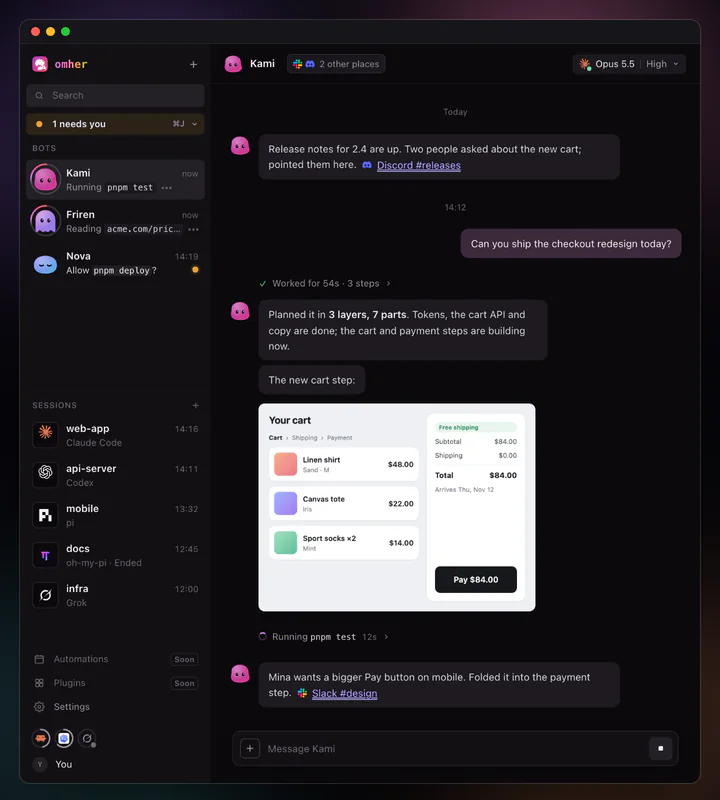
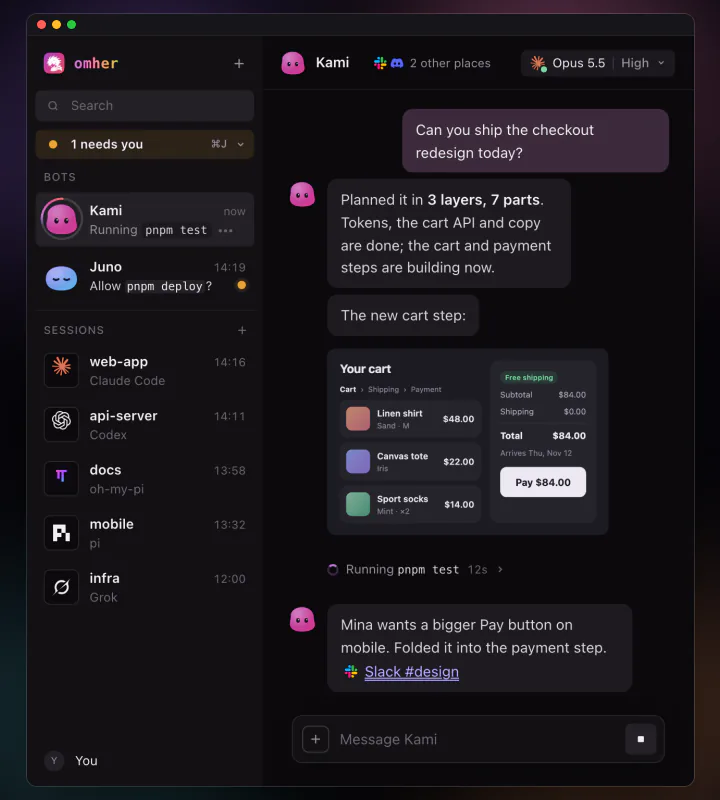
fix(site): beam source behind the pill, no haze over the app, bigger flat promo shot
The revised promo image (2400x1239, flat window, captions outside it) replaces the
tilted 2400x1640 one. The window is re-measured from its 1px border (x 340-2156,
y 65-1173) and placed with --win-*; the shot now shows the window at ~70% of a
1440 viewport (1012 CSS px), centred on the page axis with the image's backdrop
overflowing both sides.

- Source: the Download pill carries a faint spectral rim and a soft spectral glow
  under it; the shader has no bloom on the pill any more. The column fades in
  from ~40px under the 68px header, narrow, and fans out only toward the window.
  It lands left of the pill, clear of the GitHub pill and the right caption.
- No haze: the volume is clipped at the window's top edge with a 12px feather;
  only the spectral rim and a <=4.5% sheen enter the window. Measured beam-on vs
  beam-off over the window: mean +2/255, max 16/255. The cursor glare is capped
  at ~6%, the click ring is gone (sparks only), the 2D fallback clips at the edge.
- No muddy glows: the image's own backdrop glows (teal left, olive and violet
  under the window) are masked off; only the window and the two side captions
  are drawn, over one brand-violet ambient glow and a plain drop shadow.
- The rim on the window edge takes the beam's own spectrum under its footprint
  and fades outside it; the fan keeps widening past the impact, so the far side
  of a slanted beam has no shelf.
- Phones: the beam stays off when the header-to-window gap is under ~70px.
[…]

diff --git a/site/index.html b/site/index.html
@@ -461,65 +461,81 @@ details.agent .copy--agent{margin-top:12px;padding:8px 14px;border:1px solid var
 
 /* omher at the top: header Download pill, the beam under it, then one promo shot, OS downloads and a one-line install */
 .nav > a.dlpill{position:relative;gap:7px;padding:0 15px 0 12px;border:0;background:#f4f1f8;color:#0c0a12;font:600 12.5px var(--sans);letter-spacing:0;text-transform:none;
-  box-shadow:0 0 0 1px rgba(255,255,255,.55),0 0 18px rgba(255,255,255,.22),0 0 44px rgba(242,123,182,.2);transition:transform var(--fast),box-shadow var(--fast),background var(--fast)}
-.nav > a.dlpill:hover{background:#fff;transform:translateY(-1px);box-shadow:0 0 0 1px #fff,0 0 24px rgba(255,255,255,.34),0 0 60px rgba(242,123,182,.3)}
+  box-shadow:-12px 12px 28px -8px rgba(164,108,245,.62),-4px 16px 30px -8px rgba(47,208,255,.5),4px 16px 30px -8px rgba(242,210,74,.4),12px 12px 28px -8px rgba(242,123,182,.62),0 0 0 1px rgba(255,255,255,.4);
+  transition:transform var(--fast),background var(--fast),box-shadow var(--fast)}
+.nav > a.dlpill:hover{background:#fff;transform:translateY(-1px);
+  box-shadow:-12px 12px 30px -6px rgba(164,108,245,.75),0 16px 34px -6px rgba(47,208,255,.55),12px 12px 30px -6px rgba(242,123,182,.75),0 0 0 1px #fff}
+/* the beam's source: a faint spectral rim on the pill and a soft spectral glow under it (box-shadow); the beam itself starts ~40px lower */
+.nav > a.dlpill::before{content:"";position:absolute;inset:-1.5px;border-radius:inherit;padding:1.5px;pointer-events:none;opacity:.8;
+  background:linear-gradient(90deg,#a46cf5,#5a7cff,#2fd0ff,#7fe08a,#f2d24a,#ff8f3c,#f27bb6);
+  -webkit-mask:linear-gradient(#000 0 0) content-box,linear-gradient(#000 0 0);-webkit-mask-composite:xor;mask:linear-gradient(#000 0 0) content-box exclude,linear-gradient(#000 0 0)}
+
 .nav > a.dlpill svg{width:15px;height:15px}
 @media (max-width:720px){.nav > a.dlpill span{display:none}.nav > a.dlpill{padding:0 10px}}
 @media (max-width:480px){.nav .nav__icon{display:none}.top__in{padding:0 16px}}
 .dlbeam{position:fixed;inset:0;width:100%;height:100%;z-index:3;pointer-events:none;mix-blend-mode:screen}
-.omher{position:relative;display:flex;flex-direction:column;align-items:center;justify-content:center;min-height:calc(100svh - 8px);padding:72px var(--gut) 40px;text-align:center;overflow:hidden}
+.omher{position:relative;display:flex;flex-direction:column;align-items:center;justify-content:center;min-height:calc(100svh - 8px);padding:192px var(--gut) 40px;text-align:center;overflow:hidden}
 .omher::before{content:"";position:absolute;inset:0;pointer-events:none;
   background:linear-gradient(rgba(242,238,248,.035) 1px,transparent 1px) 0 0/56px 56px,linear-gradient(90deg,rgba(242,238,248,.035) 1px,transparent 1px) 0 0/56px 56px;
   -webkit-mask-image:radial-gradient(70% 60% at 50% 40%,#000,transparent);mask-image:radial-gradient(70% 60% at 50% 40%,#000,transparent)}
 /* the seam into the OMH hero: one soft spectrum hairline */
 .omher::after{content:"";position:absolute;left:50%;bottom:0;width:min(880px,80%);height:1px;transform:translateX(-50%);pointer-events:none;opacity:.55;
   background:linear-gradient(90deg,transparent,#a46cf5 22%,#f27bb6 42%,#ff9a5a 58%,#c6f36b 74%,transparent);box-shadow:0 0 18px 1px rgba(242,123,182,.28)}
-/* The shot is a promo composition (2400x1640: backdrop, glow, caption pills, and the app window with its own chrome and shadow).
-   --win-* place the window inside it, so the beam lands on the window's top edge; a new image at the same size and layout is a pure file swap. */
-.omher__shot{position:relative;z-index:2;order:0;width:min(1240px,100%,calc((100svh - 290px) * 1.4634));min-width:min(640px,100%);margin:0 auto;
-  --win-l:10.58%;--win-t:8.78%;--win-w:80.46%;--win-h:77.56%;--win-dy:.0244;--win-rot:-.93deg;
-  --win-clip:polygon(.62% 2.44%,99.33% 0,100% 100%,.31% 98.35%);
-  --cap:87.17% 2.74% 97.58% 6.1%;  /* caption pill in the beam's path (left top right bottom, % of the image) */
+/* The shot is a promo composition (2400x1239: the flat app window with a caption card on each side). --win-* place the
+   window inside it, so the beam lands on the window's top edge; a new image at the same size and layout is a pure file swap.
+   Only the window and the two cards are drawn (mask boxes --mw/--ml/--mr: size and position, % of the image): the composition's
+   own backdrop glows are masked away, and one brand ambient glow sits behind the window instead. --sw is the image width:
+   the window is ~72% of a 1440 viewport, capped at the 2400px source (a 1200 CSS px window at 2x would need more). */
+.omher__shot{position:relative;z-index:2;order:0;flex:none;align-self:flex-start;--sw:min(1585px,95vw,calc((100svh - 210px) * 1.937));width:var(--sw);min-width:min(640px,100%);
+  /* wider than the column: centre the WINDOW (its centre sits 2.07% right of the image's) and let the backdrop overflow both sides */
+  margin:calc(var(--sw) / -1.937 * .0525) 0 calc(var(--sw) / -1.937 * .048) calc((100% - var(--sw)) / 2 - var(--sw) * .0207);
+  --win-l:14.167%;--win-t:5.246%;--win-w:75.708%;--win-h:89.508%;--win-dy:0;--win-rot:0deg;--win-clip:none;
+  --mw:75.708% 89.508%;--mwp:58.319% 50.000%;--ml:12.125% 11.703%;--mlp:1.897% 65.539%;--mr:8.042% 11.703%;--mrp:98.188% 59.781%;
   --reveal:1;--lit:0;--bx:80%;--rx:0deg;--ry:0deg;--gx:600px;--gy:300px;--glare:0;--hit:0;
   transform-origin:50% 40%}
 .omher__shot.is-tilt{transform:perspective(1600px) rotateX(var(--rx)) rotateY(var(--ry))}
+.omher__shot::before{content:"";position:absolute;left:4%;right:4%;top:-6%;bottom:-8%;z-index:-1;pointer-events:none;
+  background:radial-gradient(closest-side,rgba(164,108,245,.13),rgba(242,123,182,.05) 60%,transparent)}
 .omher__shot img{display:block;width:100%;height:auto;
-  -webkit-mask-image:linear-gradient(180deg,#000 calc(var(--reveal) * 130% - 30%),transparent calc(var(--reveal) * 130%)),linear-gradient(90deg,transparent,#000 1.6%,#000 98.4%,transparent),linear-gradient(180deg,transparent,#000 1.6%,#000 98.4%,transparent);
-  -webkit-mask-composite:source-in,source-in;
-  mask-image:linear-gradient(180deg,#000 calc(var(--reveal) * 130% - 30%),transparent calc(var(--reveal) * 130%)),linear-gradient(90deg,transparent,#000 1.6%,#000 98.4%,transparent),linear-gradient(180deg,transparent,#000 1.6%,#000 98.4%,transparent);
-  mask-composite:intersect}
-.omher__win{position:absolute;left:var(--win-l);top:var(--win-t);width:var(--win-w);height:var(--win-h);pointer-events:none}
+  -webkit-mask-image:linear-gradient(180deg,#000 calc(var(--reveal) * 130% - 30%),transparent calc(var(--reveal) * 130%)),linear-gradient(#000 0 0),linear-gradient(#000 0 0),linear-gradient(#000 0 0);
+  -webkit-mask-size:100% 100%,var(--mw),var(--ml),var(--mr);-webkit-mask-position:0 0,var(--mwp),var(--mlp),var(--mrp);-webkit-mask-repeat:no-repeat;
+  -webkit-mask-composite:source-in,source-over,source-over;
+  mask-image:linear-gradient(180deg,#000 calc(var(--reveal) * 130% - 30%),transparent calc(var(--reveal) * 130%)),linear-gradient(#000 0 0),linear-gradient(#000 0 0),linear-gradient(#000 0 0);
+  mask-size:100% 100%,var(--mw),var(--ml),var(--mr);mask-position:0 0,var(--mwp),var(--mlp),var(--mrp);mask-repeat:no-repeat;
+  mask-composite:intersect,add,add}
+.omher__win{position:absolute;left:var(--win-l);top:var(--win-t);width:var(--win-w);height:var(--win-h);pointer-events:none;border-radius:6px;
+  box-shadow:inset 0 0 0 1px rgba(255,255,255,.05),0 28px 70px -12px rgba(0,0,0,.7),0 10px 24px -8px rgba(0,0,0,.5)}
 .omher__glow{position:absolute;inset:0;overflow:hidden;pointer-events:none;transform-origin:100% 0;transform:rotate(var(--win-rot));
   -webkit-mask-image:linear-gradient(180deg,#000 calc(var(--reveal) * 130% - 30%),transparent calc(var(--reveal) * 130%));mask-image:linear-gradient(180deg,#000 calc(var(--reveal) * 130% - 30%),transparent calc(var(--reveal) * 130%))}
-/* light pooling under the impact, and the top border lit in the spectrum */
-.omher__glow::after{content:"";position:absolute;left:var(--bx);top:0;width:min(560px,52%);height:min(240px,30%);transform:translate(-50%,-50%);opacity:calc(var(--lit) + var(--hit) * .5);
-  background:radial-gradient(closest-side,rgba(255,252,248,.06),transparent 60%),linear-gradient(90deg,rgba(138,92,255,.15),rgba(47,208,255,.15) 30%,rgba(127,224,138,.13) 50%,rgba(242,210,74,.13) 66%,rgba(255,74,88,.14));
-  -webkit-mask-image:radial-gradient(closest-side,#000,transparent);mask-image:radial-gradient(closest-side,#000,transparent);mix-blend-mode:screen}
+/* the window's top border lit in the spectrum where the beam lands (the only light that enters the window, with a <=6% sheen) */
 .omher__glow::before{content:"";position:absolute;left:0;right:0;top:0;height:2px;opacity:calc(var(--lit) * .82 + var(--hit) * .5);
   background:radial-gradient(closest-side,rgba(255,255,255,.7),rgba(255,255,255,0)) var(--bx) 0/90px 2px no-repeat,linear-gradient(90deg,#8a5cff,#5a7cff,#2fd0ff,#7fe08a,#f2d24a,#ff8f3c,#ff4a58) calc(var(--bx) - 240px) 0/480px 100% no-repeat;
-  -webkit-mask-image:radial-gradient(240px 400% at var(--bx) 0,#000 30%,transparent);mask-image:radial-gradient(240px 400% at var(--bx) 0,#000 30%,transparent);
+  -webkit-mask-image:radial-gradient(120px 400% at var(--bx) 0,#000 15%,transparent);mask-image:radial-gradient(120px 400% at var(--bx) 0,#000 15%,transparent);
   box-shadow:0 0 10px rgba(255,255,255,.2)}
 /* glass: a faint spectrum sheen that sweeps across now and then, and a glare that follows the cursor */
-.omher__sheen{position:absolute;inset:0;overflow:hidden;pointer-events:none;mix-blend-mode:screen;clip-path:var(--win-clip);opacity:max(var(--glare),calc(var(--lit) * .9))}
+.omher__sheen{position:absolute;inset:0;overflow:hidden;pointer-events:none;mix-blend-mode:screen;border-radius:6px;opacity:max(var(--glare),calc(var(--lit) * .9))}
 .omher__sheen::before{content:"";position:absolute;top:-20%;bottom:-20%;left:-60%;width:38%;transform:skewX(-18deg) translateX(0);
-  background:linear-gradient(90deg,transparent,rgba(255,61,74,.045) 18%,rgba(255,143,44,.055) 30%,rgba(255,217,62,.06) 42%,rgba(91,234,106,.055) 54%,rgba(47,208,255,.06) 66%,rgba(74,114,255,.055) 76%,rgba(154,76,255,.045) 86%,transparent);
+  background:linear-gradient(90deg,transparent,rgba(255,61,74,.03) 18%,rgba(255,143,44,.035) 30%,rgba(255,217,62,.035) 42%,rgba(91,234,106,.035) 54%,rgba(47,208,255,.04) 66%,rgba(74,114,255,.04) 76%,rgba(154,76,255,.03) 86%,transparent);
   animation:omher-sheen 9s cubic-bezier(.45,.05,.3,1) 2.6s infinite}
 @keyframes omher-sheen{0%{transform:skewX(-18deg) translateX(0)}38%,100%{transform:skewX(-18deg) translateX(560%)}}
 .omher__sheen::after{content:"";position:absolute;inset:0;opacity:var(--glare);
-  background:radial-gradient(30px 26px at var(--gx) var(--gy),rgba(255,255,255,.3),rgba(255,255,255,.06) 60%,transparent 85%),
-    linear-gradient(118deg,transparent 14%,rgba(255,74,88,.24) 25%,rgba(255,150,60,.24) 35%,rgba(250,224,80,.18) 44%,rgba(100,234,140,.2) 53%,rgba(50,210,255,.26) 63%,rgba(90,124,255,.28) 72%,rgba(164,96,255,.24) 81%,transparent 90%) calc(var(--gx) - 130px) calc(var(--gy) - 100px)/260px 200px no-repeat;
+  /* the cursor glare stays a faint glass glint (<=6%), never a coloured spot over the UI */
+  background:radial-gradient(30px 26px at var(--gx) var(--gy),rgba(255,255,255,.06),rgba(255,255,255,.015) 60%,transparent 85%),
+    linear-gradient(118deg,transparent 14%,rgba(255,74,88,.05) 25%,rgba(255,150,60,.05) 35%,rgba(250,224,80,.04) 44%,rgba(100,234,140,.045) 53%,rgba(50,210,255,.055) 63%,rgba(90,124,255,.06) 72%,rgba(164,96,255,.05) 81%,transparent 90%) calc(var(--gx) - 130px) calc(var(--gy) - 100px)/260px 200px no-repeat;
   -webkit-mask-image:radial-gradient(102px 80px at var(--gx) var(--gy),#000 30%,rgba(0,0,0,.4) 64%,transparent);mask-image:radial-gradient(102px 80px at var(--gx) var(--gy),#000 30%,rgba(0,0,0,.4) 64%,transparent)}
-.omher__meta{position:relative;z-index:2;order:1;margin:6px auto 0;display:flex;flex-direction:column;align-items:center;gap:6px}
+.omher__meta{position:relative;z-index:2;order:1;margin:14px auto 0;display:flex;flex-direction:column;align-items:center;gap:6px}
 .omher__t{margin:0 0 4px;min-height:0;font:500 11.5px/1.2 var(--mono);letter-spacing:.14em;text-transform:uppercase;color:var(--ink-4)}
 .omher__t b{color:var(--ink-2);font-weight:600}
-.omher__d{margin:0;font:500 clamp(18px,1.75vw,25px)/1.3 var(--sans);letter-spacing:-.01em;color:var(--ink)}
-.omher__get{position:relative;z-index:2;order:2;display:flex;justify-content:center;flex-wrap:wrap;gap:10px;margin:24px auto 16px}
+.omher__d{margin:0;font:500 clamp(18px,1.9vw,28px)/1.3 var(--sans);letter-spacing:-.01em;color:var(--ink)}
+.omher__act{position:relative;z-index:2;order:2;width:100%;display:flex;flex-direction:column;align-items:center}
+.omher__get{position:relative;z-index:2;display:flex;justify-content:center;flex-wrap:wrap;gap:10px;margin:24px auto 16px}
+@media (min-width:1100px){.omher__act{flex-direction:row;justify-content:center;gap:12px;margin-top:24px}.omher__act .omher__get,.omher__act .omher__cmd{margin:0}}
 .osbtn{display:inline-flex;align-items:center;gap:9px;height:44px;padding:0 18px;border-radius:999px;border:1px solid var(--line-2);color:var(--ink);font:500 14px var(--sans);transition:border-color var(--fast),background var(--fast),transform var(--fast)}
 .osbtn:hover{border-color:var(--ink-3);background:rgba(255,255,255,.03)}
 .osbtn svg{width:16px;height:16px;fill:currentColor;flex:none}
 .osbtn--main{border-color:transparent;background:var(--ink);color:#0c0a12;font-weight:600}
 .osbtn--main:hover{background:#fff;border-color:transparent;transform:translateY(-1px)}
-.omher__cmd{position:relative;z-index:2;order:3;display:flex;align-items:stretch;width:fit-content;max-width:min(920px,100%);margin:0 auto;border:1px solid var(--line-2);border-radius:12px;background:rgba(17,14,24,.78);text-align:left}
+.omher__cmd{position:relative;z-index:2;display:flex;align-items:stretch;width:fit-content;max-width:min(920px,100%);margin:0 auto;border:1px solid var(--line-2);border-radius:12px;background:rgba(17,14,24,.78);text-align:left}
 .omher__cmd > div{flex:1;min-width:0;padding:12px 16px;font:400 12.5px/1.7 var(--mono);color:var(--ink);overflow-x:auto;white-space:nowrap;scrollbar-width:none}
 .omher__cmd > div::-webkit-scrollbar{display:none}
 .omher__cmd .p{color:var(--pink);margin-right:10px;user-select:none}
@@ -531,8 +547,8 @@ body.rail-off .rail{opacity:0;pointer-events:none;visibility:hidden}
 /* the OMH hero keeps its content; it now starts right under the omher block instead of centring in a full screen */
 .omher + .hero{align-items:flex-start;padding-top:88px}
 .omher + .hero::before{content:"";position:absolute;left:0;right:0;top:0;height:160px;z-index:1;pointer-events:none;background:linear-gradient(var(--bg),rgba(12,10,18,0))}
-@media (max-width:600px){.omher__shot{--cap:0 0 0 0;--win-l:2.64%;--win-t:2.38%;--win-w:94.58%;--win-h:95.5%;--win-dy:0;--win-rot:0deg;--win-clip:none}}
-@media (max-width:760px){.omher{min-height:0;padding:84px 20px 40px}.omher__shot{min-width:0;width:min(350px,100%);transform:none}.omher__cmd{border-radius:10px}.omher__cmd > div{padding:10px 28px 10px 18px}.omher__meta{margin-top:18px}.omher__d{font-size:16px;max-width:330px}.osbtn{height:42px;justify-content:center}.omher + .hero{padding-top:72px}.omher__glow::after{display:none}.omher__get{flex-direction:column;align-items:stretch;gap:10px;width:min(350px,100%);max-width:none;margin:20px auto 12px}.omher__cmd{width:min(350px,100%)}.omher__cmd > div{padding-right:28px}}
+@media (max-width:600px){.omher__shot{--win-l:3.611%;--win-t:1.625%;--win-w:92.917%;--win-h:96.75%;--mw:92.917% 96.750%;--mwp:50.980% 50.000%;--ml:0 0;--mr:0 0}}
+@media (max-width:760px){.omher{min-height:0;padding:84px 20px 40px}.omher__shot{min-width:0;--sw:min(350px,100%);align-self:center;margin:0 auto;transform:none}.omher__cmd{border-radius:10px}.omher__cmd > div{padding:10px 28px 10px 18px}.omher__meta{margin-top:18px}.omher__d{font-size:16px;max-width:330px}.osbtn{height:42px;justify-content:center}.omher + .hero{padding-top:72px}.omher__get{flex-direction:column;align-items:stretch;gap:10px;width:min(350px,100%);max-width:none;margin:20px auto 12px}.omher__cmd{width:min(350px,100%)}.omher__cmd > div{padding-right:28px}}
 </style>
 <script type="application/ld+json">
 {
@@ -614,17 +630,19 @@ body.rail-off .rail{opacity:0;pointer-events:none;visibility:hidden}
 <canvas class="dlbeam" data-beam aria-hidden="true"></canvas>
 <main>
 <section class="omher" id="omher" aria-labelledby="omher-t" data-omher>
-  <figure class="omher__shot" data-app-shot><picture><source media="(max-width: 600px)" srcset="assets/omher-app-mobile.webp" width="720" height="800"><img src="assets/omher-app.webp" alt="omher: the bot Kami ships a checkout redesign as a seven-part plan. The sidebar lists bots and coding sessions in Claude Code, Codex, pi and Grok, the chat shows the new cart step, and the Runs tab shows the plan as a graph." width="2400" height="1640" fetchpriority="high" decoding="async"></picture><span class="omher__win" data-app-win aria-hidden="true"><span class="omher__sheen"></span><span class="omher__glow"></span></span></figure>
+  <figure class="omher__shot" data-app-shot><picture><source media="(max-width: 600px)" srcset="assets/omher-app-mobile.webp" width="720" height="800"><img src="assets/omher-app.webp" alt="omher: the bots Kami, Friren, Juno and Pip; coding sessions web-app in Claude Code, api-server in Codex, mobile in pi, docs in oh-my-pi and infra in Grok; Kami's chat about shipping a checkout redesign; and the Runs tab with the plan card and the run's graph." width="2400" height="1239" fetchpriority="high" decoding="async"></picture><span class="omher__win" data-app-win aria-hidden="true"><span class="omher__sheen"></span><span class="omher__glow"></span></span></figure>
   <div class="omher__meta">
     <h2 class="omher__t" id="omher-t"><b>omher</b> · the desktop app</h2>
     <p class="omher__d" data-i18n="omher.desc">Your Hermes bots, coding sessions and dag‑ulw runs — one window.</p>
   </div>
+  <div class="omher__act">
   <div class="omher__get" data-dl>
     <a class="osbtn osbtn--main" href="https://github.com/rlaope/oh-my-hermes/releases?q=omher" data-dl-k="mac-arm"><svg viewBox="0 0 24 24" aria-hidden="true"><path d="M16.37 12.6c.02 2.4 2.1 3.2 2.13 3.21-.02.06-.33 1.14-1.1 2.26-.66.97-1.35 1.93-2.43 1.95-1.06.02-1.4-.63-2.62-.63s-1.6.61-2.6.65c-1.04.04-1.84-1.05-2.5-2.01-1.36-1.97-2.4-5.57-1-8 .69-1.21 1.93-1.97 3.28-1.99 1.02-.02 1.99.69 2.62.69.62 0 1.8-.85 3.04-.73.52.02 1.98.21 2.92 1.58-.08.05-1.74 1.02-1.74 3.02M14.37 4.68c.56-.68.93-1.62.83-2.56-.8.03-1.77.53-2.35 1.21-.51.6-.97 1.56-.85 2.48.9.07 1.81-.46 2.37-1.13"/></svg>macOS (Apple silicon)</a>
     <a class="osbtn" href="https://github.com/rlaope/oh-my-hermes/releases?q=omher" data-dl-k="mac-x64"><svg viewBox="0 0 24 24" aria-hidden="true"><path d="M16.37 12.6c.02 2.4 2.1 3.2 2.13 3.21-.02.06-.33 1.14-1.1 2.26-.66.97-1.35 1.93-2.43 1.95-1.06.02-1.4-.63-2.62-.63s-1.6.61-2.6.65c-1.04.04-1.84-1.05-2.5-2.01-1.36-1.97-2.4-5.57-1-8 .69-1.21 1.93-1.97 3.28-1.99 1.02-.02 1.99.69 2.62.69.62 0 1.8-.85 3.04-.73.52.02 1.98.21 2.92 1.58-.08.05-1.74 1.02-1.74 3.02M14.37 4.68c.56-.68.93-1.62.83-2.56-.8.03-1.77.53-2.35 1.21-.51.6-.97 1.56-.85 2.48.9.07 1.81-.46 2.37-1.13"/></svg>macOS (Intel)</a>
     <a class="osbtn" href="https://github.com/rlaope/oh-my-hermes/releases?q=omher" data-dl-k="win-exe"><svg viewBox="0 0 24 24" aria-hidden="true"><path d="M3 5.1 10.4 4v7.1H3zm0 13.8 7.4 1.1v-7H3zm8.3 1.2L21 21.5V13H11.3zm0-16.2V11.1H21V2.5z"/></svg>Windows</a>
   </div>
   <div class="omher__cmd" data-omher-cmd><div><span class="p">$</span><code>curl -fsSL https://omher.app/omher | sh</code></div><button class="copy" data-copy-text="curl -fsSL https://omher.app/omher | sh">Copy</button></div>
+  </div>
 </section>
 
 <section class="hero hero--center" aria-labelledby="h1" data-hero>

diff --git a/site/beam.js b/site/beam.js
@@ -2,7 +2,7 @@
  * omher.app top block: the light that falls from the header Download pill onto the app shot, and the shot's
  * tilt and glare. Our own WebGL2 shader (nothing taken from OpenBot or React Bits). Without WebGL2 a canvas 2D
  * column is drawn instead; under prefers-reduced-motion one still frame is drawn, with no flow and no tilt.
- * The shader renders at 0.75x CSS pixels inside the beam's bounding box only, is capped at 60 fps, and idles
+ * The shader renders at 1x CSS pixels inside the beam's bounding box only, is capped at 60 fps, and idles
  * while the tab is hidden or the block is off-screen. The canvas never takes pointer events: interaction is
  * read from pointer listeners, so the buttons under it stay clickable.
  */
@@ -11,7 +11,7 @@
   const q = s => document.querySelector(s);
   let cv = q('[data-beam]'); const pill = q('[data-dlpill]'), sec = q('[data-omher]'), shot = q('[data-app-shot]'), win = q('[data-app-win]') || shot;
   if (!cv || !pill || !sec || !shot) return;
-  let winDy = 0, cap = [0, 0, 0, 0];   // the window's top-left corner sits this fraction of its height below the top-right one (perspective in the composition)
+  let winDy = 0;   // the window's top-left corner sits this fraction of its height below the top-right one (perspective in the composition)
 
   // the 01-08 section rail belongs to the OMH sections, not to the omher block
   new IntersectionObserver(es => document.body.classList.toggle('rail-off', es[0].isIntersecting), {rootMargin: '0px 0px -60% 0px'}).observe(sec);
@@ -28,7 +28,7 @@
   // the full spectrum, red to violet, for the 2D fallback
   const PAL = [[255, 64, 72], [255, 140, 40], [255, 220, 60], [90, 240, 100], [40, 210, 255], [70, 110, 255], [150, 70, 255]];
 
-  const RES = 0.75;          // render scale against CSS pixels
+  const RES = 1;             // render scale against CSS pixels (the box is small: full-res keeps the bands crisp)
   const FLOW = 1100;         // ripple speed down the beam, px/s
   let W = 0, H = 0;
   const S = {I: 0, pour: RM ? 1 : 0, reveal: RM ? 1 : 0, lean: null, near: 0, hov: 0, hovT: 0, mx: -1, my: -1, mouse: false,
@@ -48,7 +48,6 @@ precision highp float;
 uniform vec2 uView, uA, uB;
 uniform vec3 uShot;            // window left, right, top edge at the impact (CSS px)
 uniform float uSlope;          // window top edge dy/dx
-uniform vec4 uHole;            // a caption pill the beam passes behind (CSS px; zero size = none)
 uniform float uScale, uTime, uI, uPour, uWide, uBright, uLand, uHov, uBurst, uStill;
 uniform float uPulse[4];
 out vec4 o;
@@ -63,7 +62,7 @@ vec3 spec(float h){
   return mix(c[i], c[(i + 1) % 8], f);
 }
 // a prism fan: x in -1..1 maps red..violet, h shifts the whole fan along the spectrum
-vec3 prism(float x, float h){ x = clamp(x, -1., 1.); x = sign(x) * pow(abs(x), 1.15); vec3 c = spec(clamp((x * .5 + .5) * .8 + h, 0., .8)); float w = smoothstep(.45, .1, (x * .5 + .5) * .8 + h); return c * pow(.58 / max(dot(c, vec3(.3, .55, .15)), .2), .55) * (1. + .3 * w); }
+vec3 prism(float x, float h){ x = clamp(x, -1., 1.); x = sign(x) * pow(abs(x), 1.15); vec3 c = spec(clamp((x * .5 + .5) * .7 + h, 0., .72)); float w = smoothstep(.45, .1, (x * .5 + .5) * .7 + h); return c * min(pow(.58 / max(dot(c, vec3(.3, .55, .15)), .2), .55), 1.05) * (1. + .15 * w); }
 vec3 sat(vec3 c, float k){ return max(mix(vec3(dot(c, vec3(.3, .55, .15))), c, k), 0.); }
 void main(){
   vec2 p = vec2(gl_FragCoord.x, uView.y * uScale - gl_FragCoord.y) / uScale;
@@ -71,16 +70,18 @@ void main(){
   vec2 ab = uB - uA; float L = max(length(ab), 1.); vec2 dir = ab / L, nrm = vec2(-dir.y, dir.x);
   vec2 ap = p - uA; float along = dot(ap, dir), d = dot(ap, nrm);
   float edgeY = uShot.z + uSlope * (p.x - uB.x);
-  float t = clamp(along / L, 0., 1.);
-  float reach = uPour * L;
+  float t = clamp(along / L, 0., 2.);   // past the impact on the far side of a slanted beam the fan keeps widening (no shelf)
+  float reach = uPour * (L + 160.);   // once poured, every band runs on until the window's edge clips it
   float env = smoothstep(reach + 2., reach - 36., along) * smoothstep(-4., 3., along);
-  float above = smoothstep(edgeY + 1.5, edgeY - 2., p.y);
-  float fadeIn = mix(smoothstep(edgeY + 1., edgeY - 5., p.y), 1., exp(-d * d / 60.));
-  // widths: the spectrum fans out toward the window (about 1.6x the old beam at the bottom), with a thicker white core
-  float wc = mix(5.2, 5.8, t) * uWide, wb = mix(16., 70., t) * uWide, wo = mix(34., 108., t) * uWide;
+  // the volume stops at the window's top edge: a hard clip with a 12px feather above it, so no haze reaches the UI
+  float above = smoothstep(edgeY, edgeY - 12., p.y) * .55 + smoothstep(edgeY, edgeY - 2., p.y) * .45;
+  // the column is born ~40px under the pill (its source is the pill's own glow), narrow, then fans out toward the window
+  // uA sits 7px inside the pill, whose own glow is the source
+  float born = smoothstep(52., 124., along * dir.y);   // the header is 68px: the column shows from ~40px below it
+  float tt = t * t, wc = mix(1.6, 5.6, tt) * uWide, wb = mix(5., 74., tt) * uWide, wo = wb * 1.5;
   float u = d / wb * 1.15;
   float flow = fbm(vec2(u * .55, (along - T * 230.) / 72.));
-  float streak = fbm(vec2(u * 1.8 + 3., (along - T * 410.) / 26.));
+  float streak = fbm(vec2(u * 1.2 + 3., (along - T * 410.) / 34.));
   float pul = 0.;
   for (int k = 0; k < 4; k++){
     float s = uPulse[k]; if (s < 0.) continue;
@@ -89,55 +90,51 @@ void main(){
   }
   // dispersion across the width, red on one side and violet on the other; the hue drifts slowly down the beam
   float drift = .045 * sin((along - T * 140.) / 200.) + .025 * sin(T * .31) + (flow - .5) * .03;
-  vec3 sc = prism(u, drift);
-  float band = smoothstep(1.25, .6, abs(u));
+  vec3 sc = mix(vec3(.66, .64, .7), prism(u, drift), smoothstep(.22, .62, t));
+  float band = smoothstep(1.1, .55, abs(u));
   float energy = (.86 + .2 * flow + .1 * streak * streak) * (1. + 1.6 * pul);
-  float core = exp(-d * d / (wc * wc)), sheath = exp(-d * d / (wc * wc * 5.)), halo = exp(-d * d / (wo * wo));
-  vec3 col = sat(sc, .85) * band * energy * mix(.22, .8, smoothstep(.1, .6, t))
-    + vec3(.9, .9, .96) * halo * .05 * (.7 + .3 * flow)
-    + vec3(1., .99, .98) * (core * .8 + sheath * .06) * (.9 + .1 * streak + 1.2 * pul) * mix(.55, 1., smoothstep(.08, .55, t)) * mix(1., .75, smoothstep(.75, 1., t));
+  float core = exp(-d * d / (wc * wc * 1.3)), sheath = exp(-d * d / (wc * wc * 6.)), halo = exp(-d * d / (wo * wo));
+  // brightest a little under the source, easing off toward the window (the impact brightens it again)
+  vec3 col = sat(sc, 1.) * band * energy * (.5 + .32 * smoothstep(.05, .35, t) - .3 * smoothstep(.55, 1., t))
+    + vec3(.9, .9, .96) * halo * .015 * (.7 + .3 * flow)
+    + vec3(1., .99, .98) * (core * .48 + sheath * .1) * (.9 + .1 * streak + 1.2 * pul) * mix(1.2, .22, smoothstep(.3, .95, t));
   // sparkles drifting down inside the column, each in one spectral hue
   vec2 g = vec2(d / 12., (along - T * 90.) / 24.); vec2 gi = floor(g), gf = fract(g);
   float r = h21(gi + 17.);
   vec2 sp = vec2(.2 + .6 * h21(gi + 7.1), .2 + .6 * h21(gi + 3.3));
   float spk = step(.95, r) * smoothstep(1.7, .2, length((gf - sp) * vec2(11., 24.)));
   spk *= (.45 + .55 * sin(T * (2.5 + r * 5.) + r * 40.)) * exp(-abs(d) / (wb * 1.2)) * smoothstep(.04, .2, t);
-  col += mix(prism(u, drift), vec3(1.), .4) * spk * .55;
-  col *= env * above * fadeIn * (1. + .45 * (uBright - 1.));
-  vec2 hc = (uHole.xy + uHole.zw) * .5, hh = (uHole.zw - uHole.xy) * .5;
-  if (hh.x > 1.){ vec2 q = abs(p - hc) - hh + 10.; float sd = length(max(q, 0.)) + min(max(q.x, q.y), 0.) - 10.; col *= mix(.5, 1., smoothstep(-8., 40., sd)); }
-  // bloom on the pill
-  vec2 q0 = (p - uA) * vec2(.55, 2.2); float bl = 1.2 * exp(-length(q0) / 11.) * (.55 + .45 * uHov * (.75 + .25 * sin(T * 6.)));
-  col += vec3(1., .99, .98) * bl * .7;
+  col += mix(prism(u, drift), vec3(1.), .4) * spk * .06;
+  col *= born * env * above * (1. + .45 * (uBright - 1.));
   // impact on the shot's top edge: a rainbow fan that pools on the edge, and a spectral rim running along it
   float dx = p.x - uB.x, dy = edgeY - p.y;
   float inX = smoothstep(uShot.x - 2., uShot.x + 70., p.x) * smoothstep(uShot.y + 2., uShot.y - 70., p.x);
-  float lift = smoothstep(-1.5, .5, dy) + (1. - smoothstep(-1.5, .5, dy)) * exp(dy / 7.) * .5;
-  float fw = 150. * uWide;
-  float fan = exp(-pow(dx / fw, 2.) - pow(max(dy, 0.) / 7., 2.)) * lift * inX;
-  float pool = exp(-pow(dx / (fw * 1.7), 2.) - pow(max(dy, 0.) / 18., 2.)) * lift * inX;
+  float lift = smoothstep(-1., .5, dy);   // nothing but the rim line and the sheen below crosses into the window
+  float fw = 90. * uWide;
+  float fan = exp(-pow(dx / fw, 2.) - pow(max(dy, 0.) / 5., 2.)) * lift * inX;
+  float pool = exp(-pow(dx / (fw * 1.3), 2.) - pow(max(dy, 0.) / 9., 2.)) * lift * inX;
   float cz = fbm(vec2(dx / 70. - T * .3, dy / 22. + T * .6));
   float edge = exp(-pow((dy - .5) / 1.4, 2.)) * inX;
-  float spread = exp(-pow(dx / 280., 2.)) * (.82 + .18 * sin(abs(dx) * .02 - T * 2.4));
+  float spread = (smoothstep(1.5, .7, abs(u)) * .75 + exp(-pow(dx / 44., 2.)) * .55) * (.86 + .14 * sin(abs(dx) * .02 - T * 2.4));
   float sw = .05 * sin(T * .45);
-  vec3 imp = sat(prism(-dx / fw, sw), 1.) * fan * (.36 + .16 * cz) + prism(-dx / (fw * 1.7), sw) * pool * (.4 + .12 * cz) + sat(prism(-dx / 260., sw + .03 * sin(T * .7)), 1.15) * edge * spread * 1.15
-    + vec3(1., .98, .97) * exp(-pow(dx / 20., 2.) - pow(max(dy, 0.) / 5., 2.)) * lift * .26;
+  vec3 imp = sat(prism(-dx / fw, sw), 1.25) * fan * (.4 + .16 * cz) + prism(-dx / (fw * 1.7), sw) * pool * (.12 + .05 * cz) + sat(prism(clamp(u, -1.2, 1.2) * .9, drift), 1.2) * edge * spread * 1.45
+    + vec3(1., .98, .97) * exp(-pow(dx / 30., 2.) - pow((dy - .5) / 2.6, 2.)) * inX * .62 + sat(prism(-dx / fw, sw), 1.2) * exp(-pow(dx / (fw * .9), 2.) - pow(max(dy, 0.) / 14., 2.)) * lift * inX * .16;
   float arrive = 0.;
   for (int k = 0; k < 4; k++){ float s = uPulse[k]; if (s < 0.) continue; float a = T - s - L / ${FLOW}.; arrive += step(0., a) * exp(-a * 5.); }
   col += imp * uLand * (1. + 1.4 * arrive) * (1. + .45 * (uBright - 1.));
-  // click burst: a spectral ring and sparks thrown up from the impact
+  // click burst: spectral sparks thrown up from the impact
   float age = T - uBurst;
   if (age > 0. && age < 1.3){
     float fade = 1. - age / 1.3;
-    float ring = exp(-pow((length(vec2(dx, dy * 2.6)) - age * 380.) / 9., 2.)) * lift * inX;
-    col += sat(prism(-dx / 260., 0.), 1.3) * ring * fade * .85;
     for (int k = 0; k < 18; k++){
       float fk = float(k), a = -3.1416 * (.08 + .84 * h21(vec2(fk, 3.7))), v = 120. + 220. * h21(vec2(fk, 9.1));
       vec2 pos = uB + vec2(cos(a), sin(a)) * v * age + vec2(0., 260. * age * age);
       float s = exp(-length(p - pos) / 1.5) * fade;
-      col += mix(spec(fk / 18. * .86), vec3(1.), .25) * s * 1.6;
+      col += mix(spec(fk / 18. * .86), vec3(1.), .25) * s * 1.6 * lift;
     }
   }
+  // inside the window: one faint spectral sheen under the impact, capped at 6%
+  col += mix(prism(-dx / 320., sw), vec3(1.), .5) * (1. - lift) * exp(dy / 40.) * exp(-pow(dx / 220., 2.)) * inX * .045 * uLand;
   col *= uI;
   // tone map, then cap: the light never reaches full opacity, so nothing under it is washed out
   col = (1. - exp(-col * 1.1)) * .9;
@@ -155,7 +152,7 @@ void main(){
       gl.attachShader(prog, sh(gl.VERTEX_SHADER, VS)); gl.attachShader(prog, sh(gl.FRAGMENT_SHADER, FS)); gl.linkProgram(prog);
       if (!gl.getProgramParameter(prog, gl.LINK_STATUS)) throw new Error(gl.getProgramInfoLog(prog));
       gl.useProgram(prog); gl.bindVertexArray(gl.createVertexArray());
-      for (const n of ['uBox', 'uView', 'uA', 'uB', 'uShot', 'uSlope', 'uHole', 'uScale', 'uTime', 'uI', 'uPour', 'uWide', 'uBright', 'uLand', 'uHov', 'uBurst', 'uStill', 'uPulse']) U[n] = gl.getUniformLocation(prog, n);
+      for (const n of ['uBox', 'uView', 'uA', 'uB', 'uShot', 'uSlope', 'uScale', 'uTime', 'uI', 'uPour', 'uWide', 'uBright', 'uLand', 'uHov', 'uBurst', 'uStill', 'uPulse']) U[n] = gl.getUniformLocation(prog, n);
     } catch (e) { console.warn('[beam] shader failed, using canvas 2D', e); gl = null; }
   }
   // a context that failed to build its program cannot hand the canvas to 2D; swap in a fresh canvas
@@ -175,7 +172,6 @@ void main(){
     cv.width = Math.max(1, Math.round(W * k)); cv.height = Math.max(1, Math.round(H * k));
     const cs = getComputedStyle(shot);
     winDy = parseFloat(cs.getPropertyValue('--win-dy')) || 0;
-    cap = (cs.getPropertyValue('--cap') || '').trim().split(/\s+/).map(v => (parseFloat(v) || 0) / 100);
   }
 
   function drawGL(f) {
@@ -185,7 +181,7 @@ void main(){
     const t = clamp(Math.min(f.y0 - 60, f.y1 - 200), 0, H), b = clamp(f.y1 + 30, 0, H);
     if (r - l < 2 || b - t < 2) return;
     gl.uniform4f(U.uBox, l, t, r, b); gl.uniform2f(U.uView, W, H); gl.uniform1f(U.uScale, cv.width / W);
-    gl.uniform2f(U.uA, f.x0, f.y0); gl.uniform2f(U.uB, f.x1, f.y1); gl.uniform3f(U.uShot, f.sr.left, f.sr.right, f.y1); gl.uniform1f(U.uSlope, f.slope); gl.uniform4f(U.uHole, f.hole[0], f.hole[1], f.hole[2], f.hole[3]);
+    gl.uniform2f(U.uA, f.x0, f.y0); gl.uniform2f(U.uB, f.x1, f.y1); gl.uniform3f(U.uShot, f.sr.left, f.sr.right, f.y1); gl.uniform1f(U.uSlope, f.slope);
     gl.uniform1f(U.uTime, f.t); gl.uniform1f(U.uI, S.I); gl.uniform1f(U.uPour, ease(S.pour));
     gl.uniform1f(U.uWide, 1 + .16 * S.near); gl.uniform1f(U.uBright, 1 + .3 * S.near + .4 * S.hov); gl.uniform1f(U.uLand, f.land);
     gl.uniform1f(U.uHov, S.hov); gl.uniform1f(U.uBurst, S.burst); gl.uniform1f(U.uStill, RM ? 1 : 0);
@@ -217,11 +213,17 @@ void main(){
     if (len < 4) return;
     const amp = S.I * (1 + .3 * S.near + .4 * S.hov), flick = RM ? 1 : .94 + .05 * Math.sin(f.t * 2.3);
     cx.setTransform(k0, 0, 0, k0, 0, 0);
-    let g = cx.createRadialGradient(f.x0, f.y0, 0, f.x0, f.y0, 80 * k); g.addColorStop(0, 'rgba(255,255,255,.5)'); g.addColorStop(.4, 'rgba(236,220,255,.16)'); g.addColorStop(1, 'rgba(255,255,255,0)');
-    cx.globalAlpha = Math.min(1, amp * flick); cx.fillStyle = g; cx.beginPath(); cx.arc(f.x0, f.y0, 80 * k, 0, 6.2832); cx.fill();
+    let g;
+    cx.globalAlpha = Math.min(1, amp * flick);
+    // the column stops at the window's top edge: nothing but the rim enters the window
+    cx.save(); cx.beginPath(); cx.moveTo(0, 0); cx.lineTo(W, 0); cx.lineTo(W, f.y1 + (W - f.x1) * f.slope); cx.lineTo(0, f.y1 - f.x1 * f.slope); cx.closePath(); cx.clip();
     cx.save(); cx.translate(f.x0, f.y0); cx.rotate(-ang);
     const wk = k * (1 + .16 * S.near);
     cx.drawImage(sprite, -SW / 2 * wk, 0, SW * wk, len);
+    cx.globalCompositeOperation = 'destination-out';
+    g = cx.createLinearGradient(0, 0, 0, 56); g.addColorStop(0, '#000'); g.addColorStop(.25, '#000'); g.addColorStop(1, 'rgba(0,0,0,0)');
+    cx.globalAlpha = 1; cx.fillStyle = g; cx.fillRect(-SW, 0, SW * 2, 56);
+    cx.globalCompositeOperation = 'source-over';
     for (const d of dust) {
       if (!RM) { d.f += d.v * dt / 1000; if (d.f > 1) { d.f = 0; d.u = Math.random() * 2 - 1; } }
       const py = d.f * len, half = k * (5 + 40 * d.f), px = d.u * half + Math.sin(f.t * 1.1 + d.ph) * 3 * k;
@@ -229,7 +231,7 @@ void main(){
       if (a <= .02) continue;
       cx.globalAlpha = Math.min(1, a); cx.fillStyle = `rgb(${PAL[d.c].join(',')})`; cx.fillRect(px, py, d.s, d.s);
     }
-    cx.restore();
+    cx.restore(); cx.restore();
     const land = f.land * amp;
     if (land > 0) {
       cx.save(); cx.beginPath(); cx.rect(f.sr.left, 0, f.sr.width, f.y1); cx.clip(); cx.translate(f.x1, f.y1); cx.scale(1, .3);
@@ -249,15 +251,15 @@ void main(){
     const slope = -winDy * sr.height / Math.max(sr.width, 1), edgeAt = x => sr.top + (x - sr.right) * slope + 1;
     const x0 = p.left + p.width / 2, y0 = p.bottom - 7;
     const gap = sr.top - p.bottom, want = sr.bottom > H * .2 && p.bottom > 0 && p.width > 0 && gap > 10;
-    const vis = want ? smooth(10, 44, gap) : 0;
+    const vis = want ? smooth(70, 110, gap) : 0;   // the column needs ~40px of lead under the header plus room to fan: no beam on a tight phone layout
     if (RM) S.I = vis; else S.I = clamp(S.I + clamp(vis - S.I, -dt / 260, dt / 420), 0, 1);
     if (want && !RM) S.pour = Math.min(1, S.pour + dt / 900);
     if (S.pour >= 1 && S.reveal < 1) { S.reveal = Math.min(1, S.reveal + dt / 1300); setVar('--reveal', ease(S.reveal).toFixed(3)); }
     const kf = ms => RM ? 1 : 1 - Math.exp(-dt / ms);
-    // landing point: under the pill on the shot's right side, leaning toward the cursor
-    const base = W < 600 ? Math.min(x0, sr.right - 40) : clamp(x0 - 440, sr.left + sr.width * .42, sr.right - 230);
+    // landing point: a little left of the pill, on the window's right part, leaning toward the cursor
+    const base = W < 600 ? Math.min(x0, sr.right - 40) : clamp(x0 - 120, sr.left + sr.width * .42, sr.right - 110);
     const live = !RM && S.mx >= 0 && S.my < sr.bottom + 120;
-    const target = live ? clamp(base + (S.mx - base) * .42, sr.left + 120, sr.right - 200) : base;
+    const target = live ? clamp(base + (S.mx - base) * .12, sr.left + sr.width * .5, sr.right - 90) : base;
     S.lean = S.lean == null || RM ? target : S.lean + (target - S.lean) * kf(280);
     const x1 = S.lean, y1 = edgeAt(x1);
     const nearT = live ? smooth(260, 40, segDist(S.mx, S.my, x0, y0, x1, y1)) : 0;
@@ -281,8 +283,7 @@ void main(){
     const hit = S.burst > 0 && t > S.burst ? Math.exp(-(t - S.burst) * 3) : 0;
     setVar('--lit', (S.I * land * (1 + .25 * S.near + .3 * S.hov)).toFixed(2)); setVar('--bx', (x1 - sr.left).toFixed(0) + 'px'); setVar('--hit', hit.toFixed(2));
     S.geo = stats.geo = {x0, y0, x1, y1, len: Math.hypot(x1 - x0, y1 - y0)};
-    const so = shot.getBoundingClientRect(), hole = cap.length === 4 && cap[2] > cap[0] ? [so.left + cap[0] * so.width, so.top + cap[1] * so.height, so.left + cap[2] * so.width, so.top + cap[3] * so.height] : [0, 0, 0, 0];
-    const f = {t, x0, y0, x1, y1, sr, land, slope, hole};
+    const f = {t, x0, y0, x1, y1, sr, land, slope};
     if (gl) drawGL(f); else if (cx) draw2d(f, dt);
   }
 
